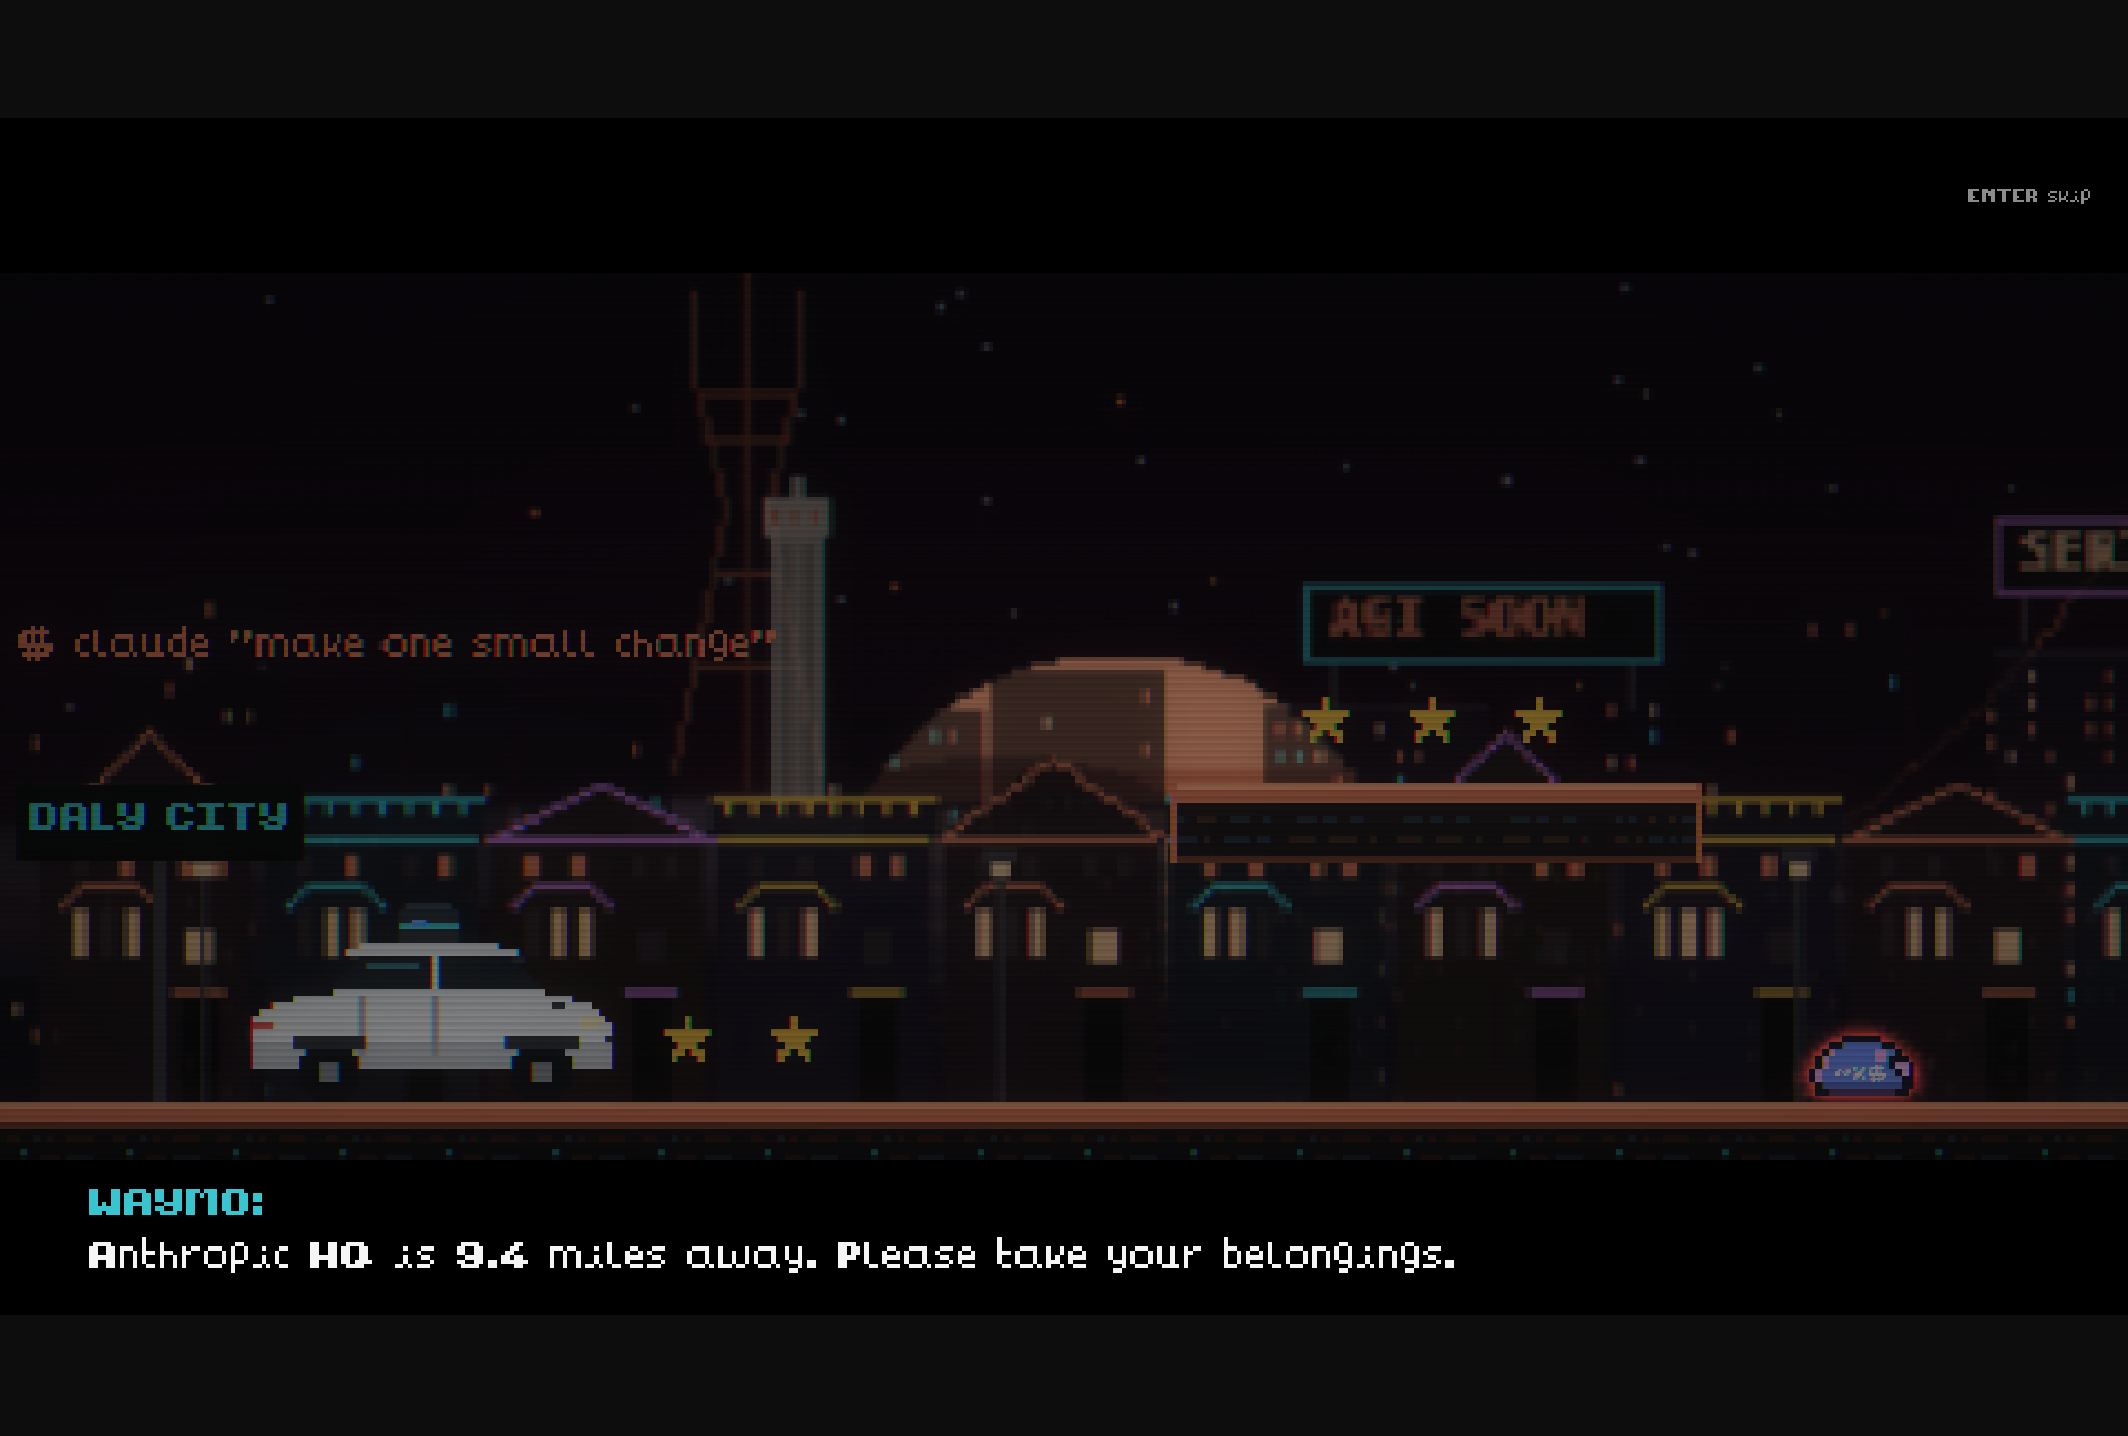
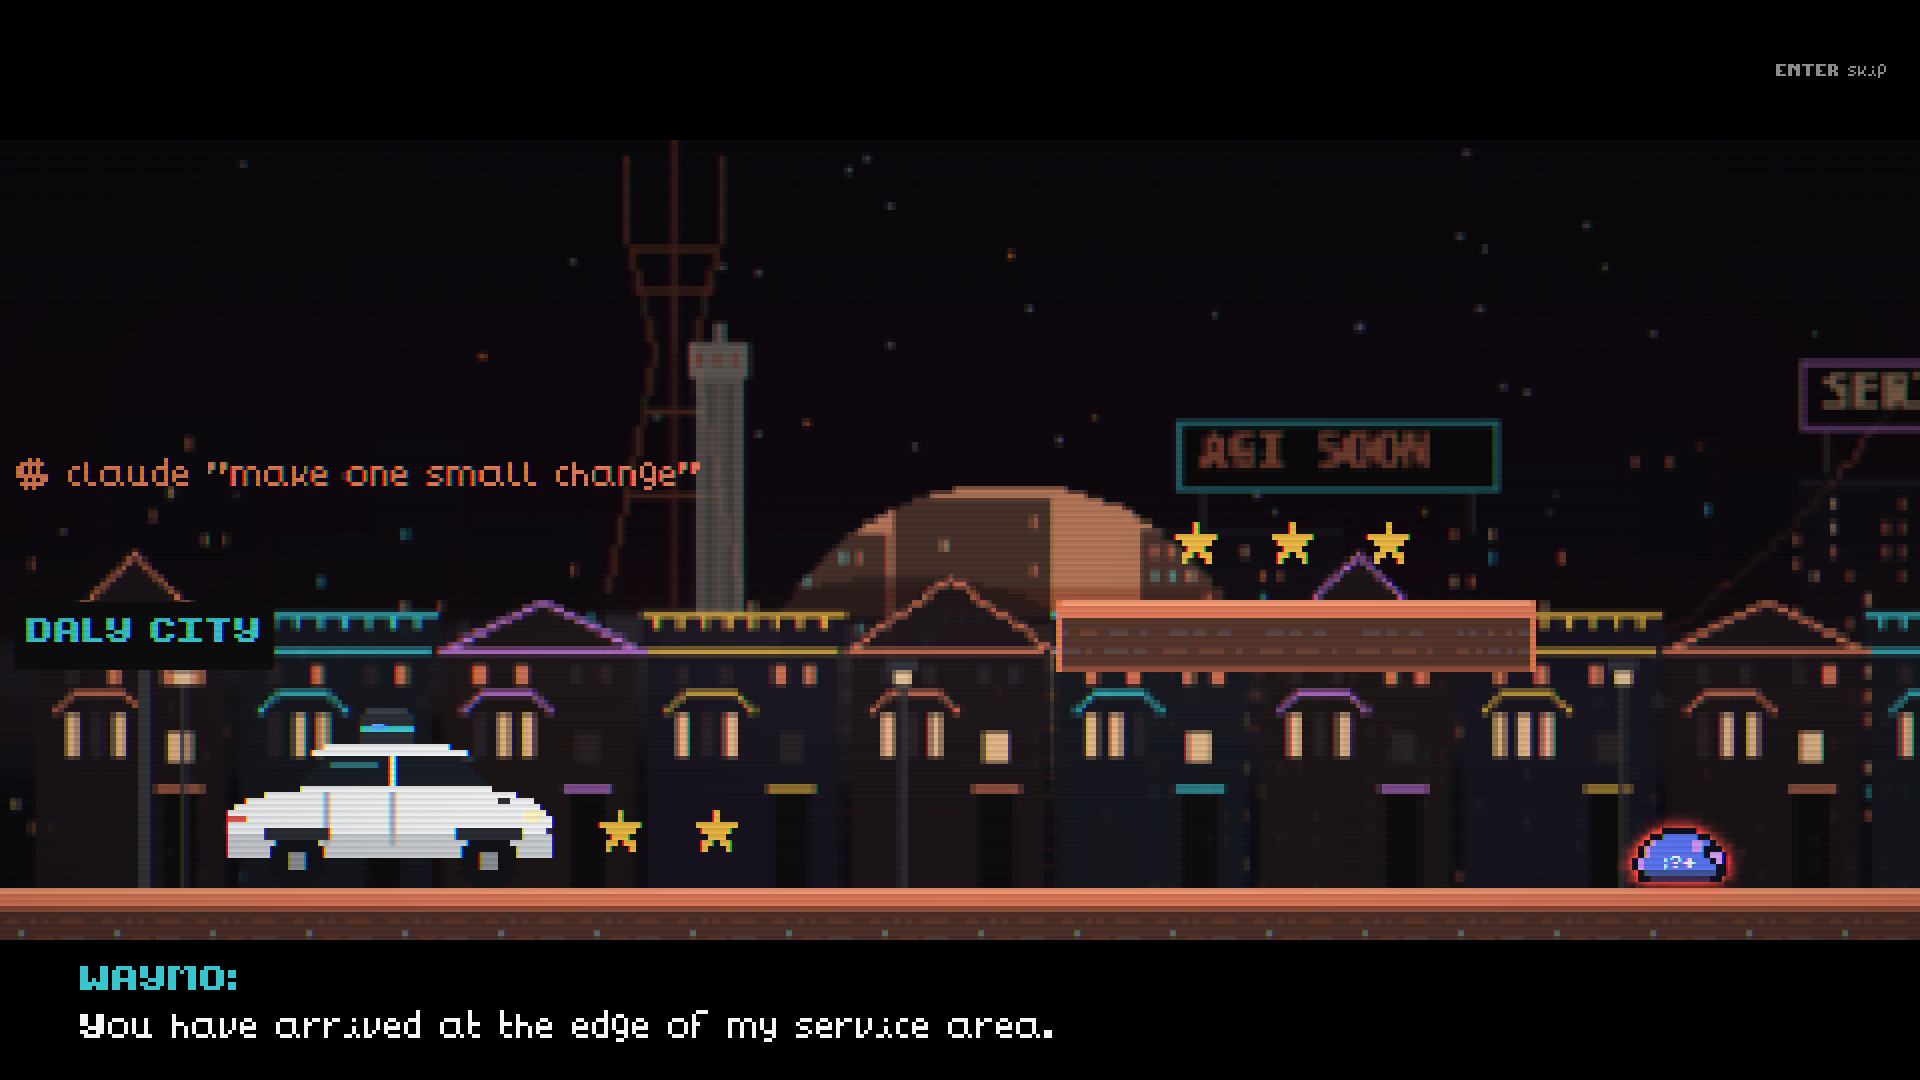
README: new desktop and phone screenshots, walkthrough rewritten
The walkthrough images predated today's look (brighter play area, boss HUD, MAX, the touch
controls) and came in nine different sizes. All new, captured from the running game with a
staging script that sets the scene, freezes the game loop on the frame, and screenshots it:

- Desktop, 960x540 at 2x (1920x1080): title, intro ping, Waymo drop-off, refactor tip,
  street combat, MAX token stream (new), cable car, boss card, the Hydra at full context
  with flood lanes marked and overflow rain starting (new), win payoff.
- Phone, 844x390 at 2x in Chrome's device emulation (new): touch title, Level 1 with right
  and fire held, the Hydra with a jump-shot, and the portrait rotate prompt.

Captions were rewritten against what each frame shows. Also: the overview and stack block
mention touch, the voice feature and test intro say tap and touch, and the credits name the
victory song as original. 3.8 MB for 14 images (was 4.1 MB for 9).

diff --git a/README.md b/README.md
@@ -9,8 +9,9 @@ real vibe-coding pain (Bad Prompt Blobs, Keyboard Goblins, overheating H100 GPUs
 against the Context Rot Hydra, a three-headed boss whose chat-bubble heads grow every turn and
 lie to you. The idea that shaped it is that your voice is a weapon: hold **M**, say *ship it*,
 *rollback*, or *refactor*, and the power fires when you let go. Speech is never required;
-every voice power has a keyboard key, and ordinary talking during a demo fires nothing,
-because `src/voice.js` only acts on release and only on a recognized command.
+every voice power has a keyboard key and a tap target on phones, and ordinary talking during a
+demo fires nothing, because `src/voice.js` only acts on release and only on a recognized
+command. It plays with a keyboard or, on phones and tablets, with touch controls.
 
 Status: hackathon demo, one level and one boss. Built with Claude Code (Claude Opus 5.5) as a
 pair programmer; commits carry `Co-Authored-By` trailers.
@@ -19,7 +20,8 @@ pair programmer; commits carry `Co-Authored-By` trailers.
 
 ```
 Frontend   Phaser 3.90 + Vite 8, plain JavaScript, WebGL + CRT post-FX   Vercel (static)
-Voice      Web Speech API in the browser (Chrome or Edge), keys 1/2/3 as fallback
+Input      Keyboard; touch on phones and tablets (DOM buttons over the canvas)
+Voice      Web Speech API in the browser (Chrome or Edge), keys 1/2/3 or taps as fallback
 Tests      0 automated; scripted browser checks recorded in docs/review/
 ```
 
@@ -45,6 +47,9 @@ Live URL checked 2026-09-26: HTTP 200.
 
 ## Product walkthrough
 
+Desktop, 960x540 at 2x. Every frame is the running game, staged by script and frozen on the
+frame shown.
+
 **1. Title screen.** A terminal window with the controls, the vibe coder as key art, and `V` to
 set up the microphone.
 
@@ -55,44 +60,73 @@ mode, then reminds you the demo is at 5 (the last ping is shown).
 
 ![Slack ping during the intro](docs/screenshots/02-intro-slack-ping.png)
 
-**3. The drop-off.** The car stops at the edge of its service area; Anthropic HQ is 9.4 miles
-away. Enter skips the whole intro.
+**3. The drop-off.** The car stops at the edge of its service area, roof lidar sweeping; Anthropic
+HQ is 9.4 miles away. Enter, or a tap, skips the whole intro.
 
 ![Waymo dialogue: edge of the service area](docs/screenshots/03-intro-edge-of-service-area.png)
 
-**4. Powers are taught at the moment of need.** When a cluster of Bad Prompt Blobs appears, a
-tip explains `refactor` and the matching slot in the HUD flashes.
+**4. Powers are taught at the moment of need.** When a cluster of Bad Prompt Blobs comes into
+view, a tip explains `refactor` and the matching slot in the terminal bar flashes.
 
 ![Contextual tip for the refactor power](docs/screenshots/04-voice-power-tip.png)
 
-**5. Street combat.** Prompt bolts from the laptop against a Bad Prompt Blob, with Sutro Tower,
-Coit Tower, and the Painted Ladies behind. The HUD shows the pixel health bar and the GitHub
-star counter.
+**5. Street combat.** Prompt bolts from the laptop against a Bad Prompt Blob, under the first
+tip, with Sutro Tower, Coit Tower, and the Painted Ladies behind. The HUD shows the pixel health
+bar and the GitHub star counter.
 
 ![Street combat in Daly City](docs/screenshots/05-street-combat.png)
 
-**6. The Powell St cable car.** A gap too wide to jump; ride the car's roof across and collect
-the star trail.
+**6. MAX.** Past the second pit, the MAX chip turns held fire into a stream of characters, 25 a
+second from a 160-token budget that the HUD counts down; an H100 has just run out of memory.
 
-![Riding the cable car](docs/screenshots/06-cable-car-ride.png)
+![Streaming MAX tokens at the enemies](docs/screenshots/06-max-token-stream.png)
 
-**7. Anthropic HQ.** The office goes quiet, the terminal types `make one small change`, the
-heads answer, and the boss card lands.
+**7. The Powell St cable car.** A gap too wide to jump, over a pit that glows `404`; ride the
+car's roof across and collect the star trail.
 
-![Context Rot Hydra title card](docs/screenshots/07-boss-title-card.png)
+![Riding the cable car](docs/screenshots/07-cable-car-ride.png)
 
-**8. Readable boss attacks.** Every attack has a 600 ms wind-up. The image-flood head marks its
-drop lanes (the image icons along the top) before the tiles fall, and always leaves three
-adjacent lanes clear. The HUD separates boss health from context growth; here the context
-meter reads FULL, the cue to say *refactor*, while a head insists your laptop is the bug and
-the spawner has dropped two flaming skulls.
+**8. Anthropic HQ.** The office goes quiet, the terminal types `make one small change`, the
+heads answer, and the boss card lands. The HUD shows boss health and, separately, context growth.
 
-![Flood lanes marked before they drop](docs/screenshots/08-boss-telegraphed-flood.png)
+![Context Rot Hydra title card](docs/screenshots/08-boss-title-card.png)
 
-**9. The payoff.** The robotaxi comes back (HQ is inside its service area) and `#demo-day`
-asks for one more small change.
+**9. A full context window.** Every attack has a 600 ms wind-up: the image-flood head flashes
+and marks its drop lanes on the floor before the tiles fall, always leaving three adjacent lanes
+clear. The heads here are fully grown, so the context overflows: terminal rain starts falling,
+context rot will deal damage until you refactor, the meter reads OVERFLOW, and the refactor tip
+stays up with its slot flashing. A notification skull hunts from the Hydra's base.
 
-![Win screen with the robotaxi and the last Slack ping](docs/screenshots/09-win-payoff.png)
+![Hydra at full context: flood lanes marked, overflow starting](docs/screenshots/09-boss-context-overflow.png)
+
+**10. The payoff.** The robotaxi comes back (HQ is inside its service area), `#demo-day` asks
+for one more small change, and an original chiptune victory song plays.
+
+![Win screen with the robotaxi and the last Slack ping](docs/screenshots/10-win-payoff.png)
+
+### On a phone
+
+iPhone-size landscape (844x390) at 2x, in Chrome's device emulation.
+
+**11. Touch title.** The same terminal, with touch instructions; a tap starts the run, and on
+Android it goes fullscreen.
+
+![Title screen on a phone](docs/screenshots/11-phone-title.png)
+
+**12. Touch controls.** The D-pad and the fire (`>_`) and jump buttons sit at the screen's
+corners, the outer ones in the letterbox bars rather than over the game; here right and fire
+are held. Powers are taps on the terminal bar, beside a hold-to-talk slot, and the tips say tap.
+
+![Level 1 on a phone with the touch controls](docs/screenshots/12-phone-level.png)
+
+**13. The Hydra on a phone.** A jump-shot with fire and jump held together, a pause button
+beside the star badge, and a head lying to you.
+
+![Boss fight on a phone](docs/screenshots/13-phone-boss.png)
+
+**14. Portrait.** Turned upright, the game pauses behind a prompt to turn the phone sideways.
+
+<img src="docs/screenshots/14-phone-portrait.png" alt="Rotate-your-phone prompt in portrait" width="240">
 
 A dated design review with before and after screenshots is in
 [`docs/review/design-review.md`](docs/review/design-review.md).
@@ -106,7 +140,7 @@ A dated design review with before and after screenshots is in
 - Three enemy types: the Bad Prompt Blob (splits in two), the Keyboard Goblin (charges and spits keycaps), and the H100 GPU (six hit points, vents arcing heat)
 - A rideable Powell St cable car, star arcs over pits, and pits that glow `404`
 - The Context Rot Hydra boss: three heads with distinct roles (image flood, gaslighting orb that reverses your controls, a spawner whose notification skulls hunt you and respawn until that head dies), growth every 8 seconds that floods the arena with matrix rain and context rot once the context window is full, until you refactor, lying speech bubbles, an enraged last head, and Furbies in the office worth bonus stars
-- Push-to-talk voice powers (`ship it`, `rollback`, `refactor`) with keyboard equivalents; the HUD shows what was heard separately from what actually fired, and when a power is cooling down
+- Push-to-talk voice powers (`ship it`, `rollback`, `refactor`) with keyboard and tap equivalents; the HUD shows what was heard separately from what actually fired, and when a power is cooling down
 - A MAX power-up past the second pit: grab the chip and holding fire streams random characters at 25 a second from a 160-token budget, until the usage limit hits; unspent tokens carry into the Hydra fight
 - Platformer feel: coyote time, a 120 ms jump buffer, half gravity at the jump apex, a faster fall, hit stop, squash and stretch, and camera lookahead
 - Every piece of text rendered in an 8x8 pixel font; a CRT scanline post-effect
@@ -237,8 +271,8 @@ dist/assets/index-BPN3vGc9.js  1,299.00 kB │ gzip: 355.54 kB
 That output is from a fresh clone of `5f16806` into a clean directory (`npm ci` then
 `npm run build`); Vite's large-chunk warning is trimmed.
 
-Gameplay was verified with scripted browser runs that drive real keyboard events against the
-running game, recorded with screenshots in
+Gameplay was verified with scripted browser runs that drive keyboard, touch, and pointer events
+against the running game, recorded with screenshots in
 [`docs/review/design-review.md`](docs/review/design-review.md). These are not in CI:
 
 | Check | Result |
@@ -316,7 +350,8 @@ No license chosen yet; all rights reserved by default.
 
 Third-party assets: the slime and skull sprite sheets, the 8x8 font, the sound effects, and both
 music tracks come from the [Ninja Adventure Asset Pack](https://pixel-boy.itch.io/ninja-adventure-asset-pack)
-by Pixel-boy and AAA, released under CC0. All other art is drawn in code in this repository.
+by Pixel-boy and AAA, released under CC0. All other art is drawn in code in this repository, and the victory song is original, written as
+note data in `src/victorySong.js`.
 
 This is an unofficial hackathon project. It is not affiliated with or endorsed by Anthropic,
 Waymo, NVIDIA, Slack, or GitHub; their names are used descriptively.
